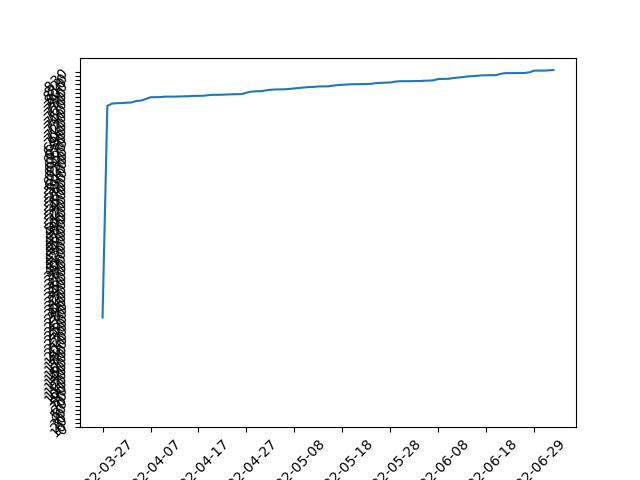
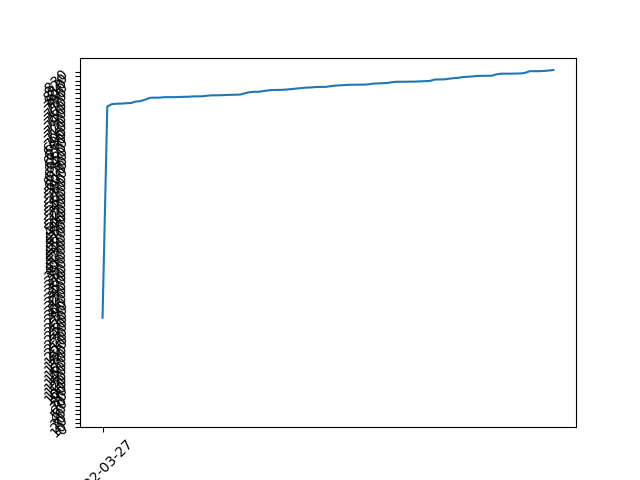
plot objects

diff --git a/report.py b/report.py
@@ -294,7 +294,7 @@ def get_draw_objects(file1name, file2name):
   plt.title('Size (Sum, GB)')
   fig, ax = plt.subplots()
   plt.plot(dates, sizes)
-  ax.set_xticks(np.arange(0, len(dates)+1, 10))
+  ax.set_xticks(np.arange(0, len(dates)+1, 200))
   ax.set_yticks(np.arange(0, max(sizes), 10))
   plt.xticks(rotation=45)
   plt.yticks(rotation=45)
@@ -308,8 +308,8 @@ def get_draw_objects(file1name, file2name):
   plt.title('Number of Objects')
   fig, ax = plt.subplots()
   plt.plot(dates, num_objects)
-  ax.set_xticks(np.arange(0, len(dates)+1, 10))
-  ax.set_yticks(np.arange(0, max(num_objects), 100))
+  ax.set_xticks(np.arange(0, len(dates)+1, 1000))
+  ax.set_yticks(np.arange(0, max(num_objects), 10))
   plt.xticks(rotation=45)
   plt.yticks(rotation=45)
   

diff --git a/report_2022-06-28T00:34:36.000Z.md b/report_2022-06-28T00:34:36.000Z.md
@@ -52,13 +52,13 @@ Total Rewards: 8081648
 |   11 |          13226270 |          1500000000000 |                  2 |      1 |   8.81751e-06 |             0.0123059 |
 |   13 |          13226270 |          1500000000000 |                  2 |      1 |   8.81751e-06 |             0.0123059 |
 |   14 |          13226270 |          1500000000000 |                  2 |      1 |   8.81751e-06 |             0.0123059 |
-|    6 |      895410110234 |          2000000000000 |              14731 |    637 |   0.447705    |           833.102     |
-|    8 |      895449614014 |          1500000000000 |              14725 |    637 |   0.596966    |           833.139     |
-|    1 |      895479421432 |          2000000000000 |              14735 |    638 |   0.44774     |           833.167     |
+|    6 |      896816973895 |          2000000000000 |              14739 |    637 |   0.448408    |           834.411     |
+|    8 |      896849135065 |          1500000000000 |              14731 |    637 |   0.597899    |           834.441     |
+|    1 |      896886285093 |          2000000000000 |              14743 |    638 |   0.448443    |           834.476     |
 |    0 |         264524788 |          2000000000000 |                 40 |      1 |   0.000132262 |             0.246118  |
-|    2 |      895516159478 |          1400000000000 |              14739 |    639 |   0.639654    |           833.201     |
-|    3 |      895478524217 |          1400000000000 |              14733 |    638 |   0.639628    |           833.166     |
-|    4 |      894572532896 |          2000000000000 |              14716 |    634 |   0.447286    |           832.323     |
+|    2 |      896923023139 |          1400000000000 |              14747 |    639 |   0.640659    |           834.51      |
+|    3 |      896885387878 |          1400000000000 |              14741 |    638 |   0.640632    |           834.475     |
+|    4 |      895979396557 |          2000000000000 |              14724 |    634 |   0.44799     |           833.632     |
 ## BUCKETS CREATED
 Bucket Created: 2
 |   id |   dataObjectsSize |   dataObjectsSizeLimit |   dataObjectsCount |   bags |   Utilization |   dataObjectsSize, GB |
@@ -103,18 +103,18 @@ Total Objects Size: 5893508868 bytes
 | 2639 |             4 |           12490023 |              3122505 |
 | 2640 |             6 |           37635261 |              6272543 |
 # Total object Info 
-Total Objects Size: 14809 
+Total Objects Size: 14817 
 
-Total Objects Size: 895979077296 bytes
+Total Objects Size: 897385940957 bytes
 
 ## Objects Size Distribution 
 |   <10 MB |   <100 MB |   <1000 MB |   <10000 MB |   <100000 MB |   <1000000 MB |
 |----------|-----------|------------|-------------|--------------|---------------|
-|     8684 |     12546 |      14720 |       14809 |        14809 |         14809 |
+|     8689 |     12551 |      14727 |       14817 |        14817 |         14817 |
  
 |   0-10 MB |   10-100 MB |   100-1000 MB |   1000-10000 MB |   10000-100000 MB |   100000-10000000 MB |
 |-----------|-------------|---------------|-----------------|-------------------|----------------------|
-|      8684 |        3862 |          2174 |              89 |                 0 |                    0 |
+|      8689 |        3862 |          2176 |              90 |                 0 |                    0 |
 ## Objects Size Distribution Per Bag 
 |   id |   objects_num |   total_size bytes |   average_size bytes |
 |------|---------------|--------------------|----------------------|
@@ -135,8 +135,8 @@ Total Objects Size: 895979077296 bytes
 | 2047 |           234 |        15402369566 |             65822092 |
 | 2289 |            36 |        15296169057 |            424893584 |
 | 2139 |           400 |        15224120644 |             38060301 |
+| 2298 |            24 |        12367099573 |            515295815 |
 | 2206 |           168 |        11863864043 |             70618238 |
-| 2298 |            22 |        11277159542 |            512598161 |
 | 2144 |           326 |        11194540770 |             34339082 |
 | 2092 |           243 |        10116875645 |             41633233 |
 | 2087 |           244 |         9777261477 |             40070743 |
@@ -186,12 +186,12 @@ Total Objects Size: 895979077296 bytes
 | 2210 |            14 |         3994891321 |            285349380 |
 | 2046 |            54 |         3898222335 |             72189302 |
 | 2171 |            44 |         3889440381 |             88396372 |
+| 2604 |           198 |         3872160343 |             19556365 |
 | 2095 |            84 |         3836858496 |             45676886 |
 | 2102 |            50 |         3823643636 |             76472872 |
 | 2225 |            12 |         3718420550 |            309868379 |
 | 2271 |            60 |         3664869915 |             61081165 |
 | 2103 |            54 |         3658543619 |             67750807 |
-| 2604 |           194 |         3562579323 |             18363810 |
 | 2125 |            86 |         3466136034 |             40303907 |
 | 2194 |            11 |         3389437329 |            308130666 |
 | 2037 |            40 |         3328173852 |             83204346 |
@@ -352,13 +352,13 @@ Total Objects Size: 895979077296 bytes
 | 2330 |             4 |           79438730 |             19859682 |
 | 2265 |            12 |           79357416 |              6613118 |
 | 2590 |             4 |           76899100 |             19224775 |
+| 2639 |            14 |           73823352 |              5273096 |
 | 2553 |            12 |           73618366 |              6134863 |
 | 2150 |            11 |           73369347 |              6669940 |
 | 2489 |            14 |           73093832 |              5220988 |
 | 2175 |            11 |           69464848 |              6314986 |
 | 2638 |             4 |           69311198 |             17327799 |
 | 2212 |             6 |           66829686 |             11138281 |
-| 2639 |            12 |           66480742 |              5540061 |
 | 2244 |            10 |           66131350 |              6613135 |
 | 2447 |             4 |           65390556 |             16347639 |
 | 2149 |             4 |           64517882 |             16129470 |
